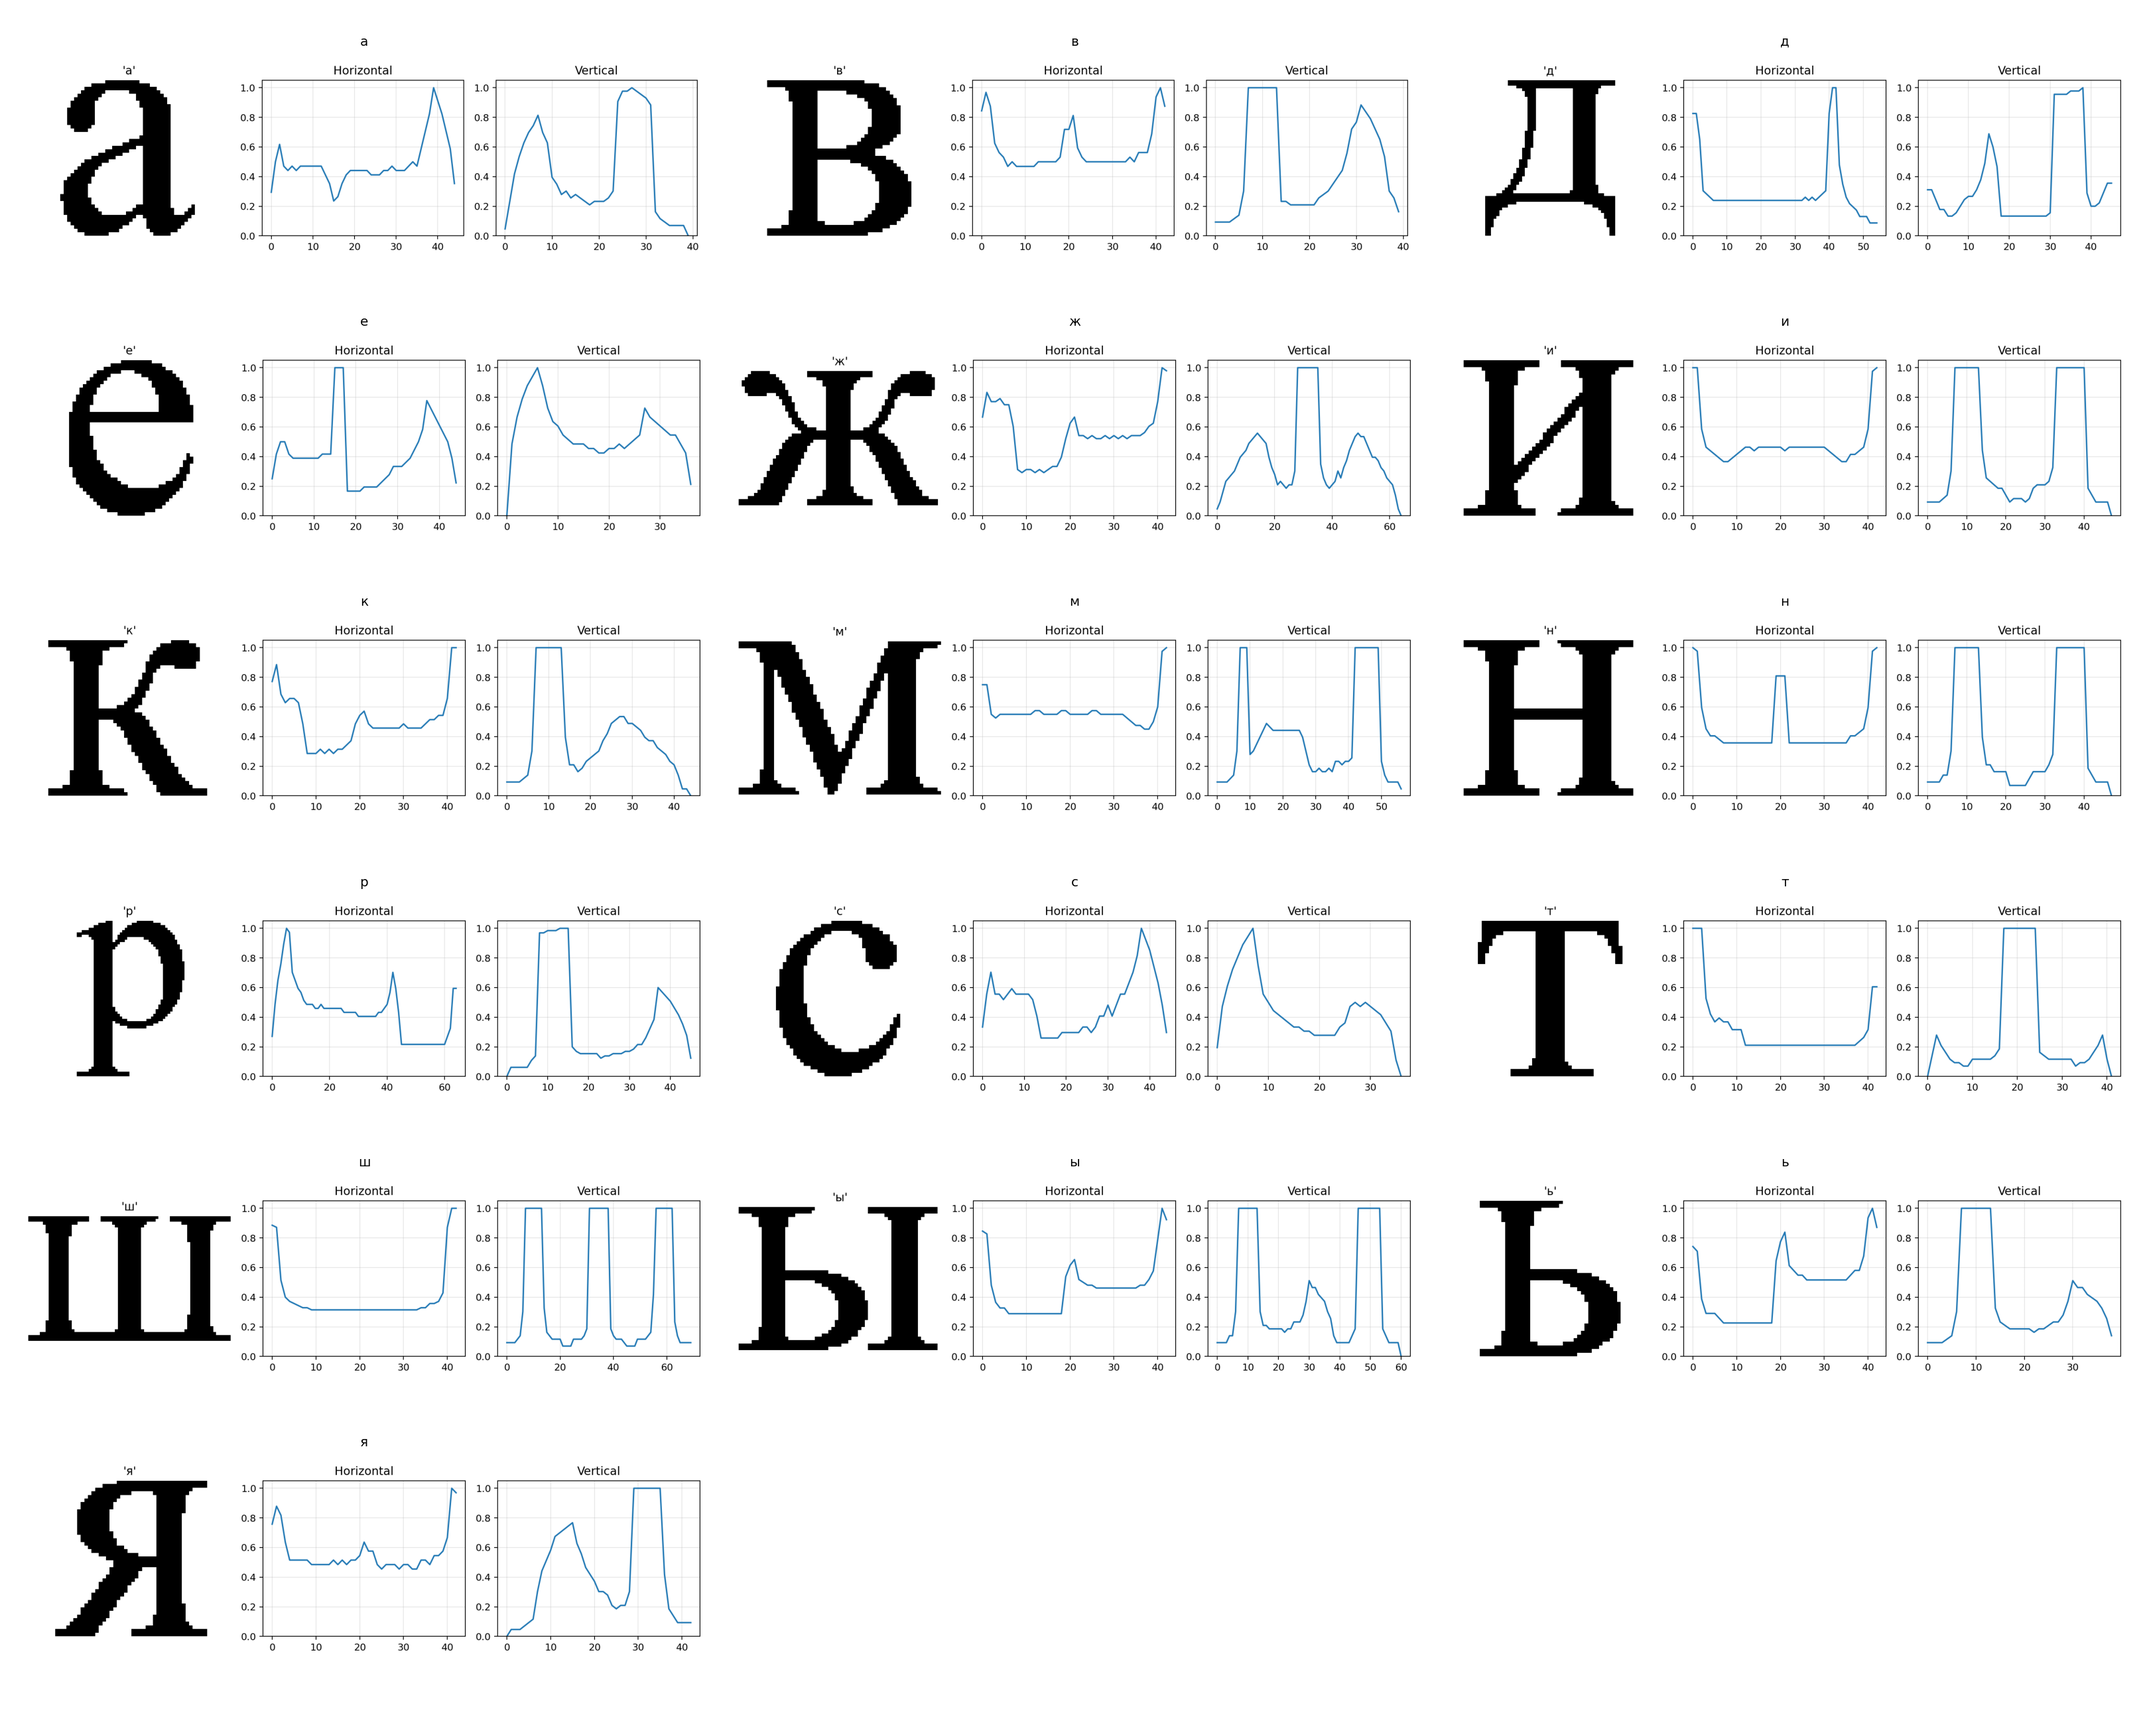
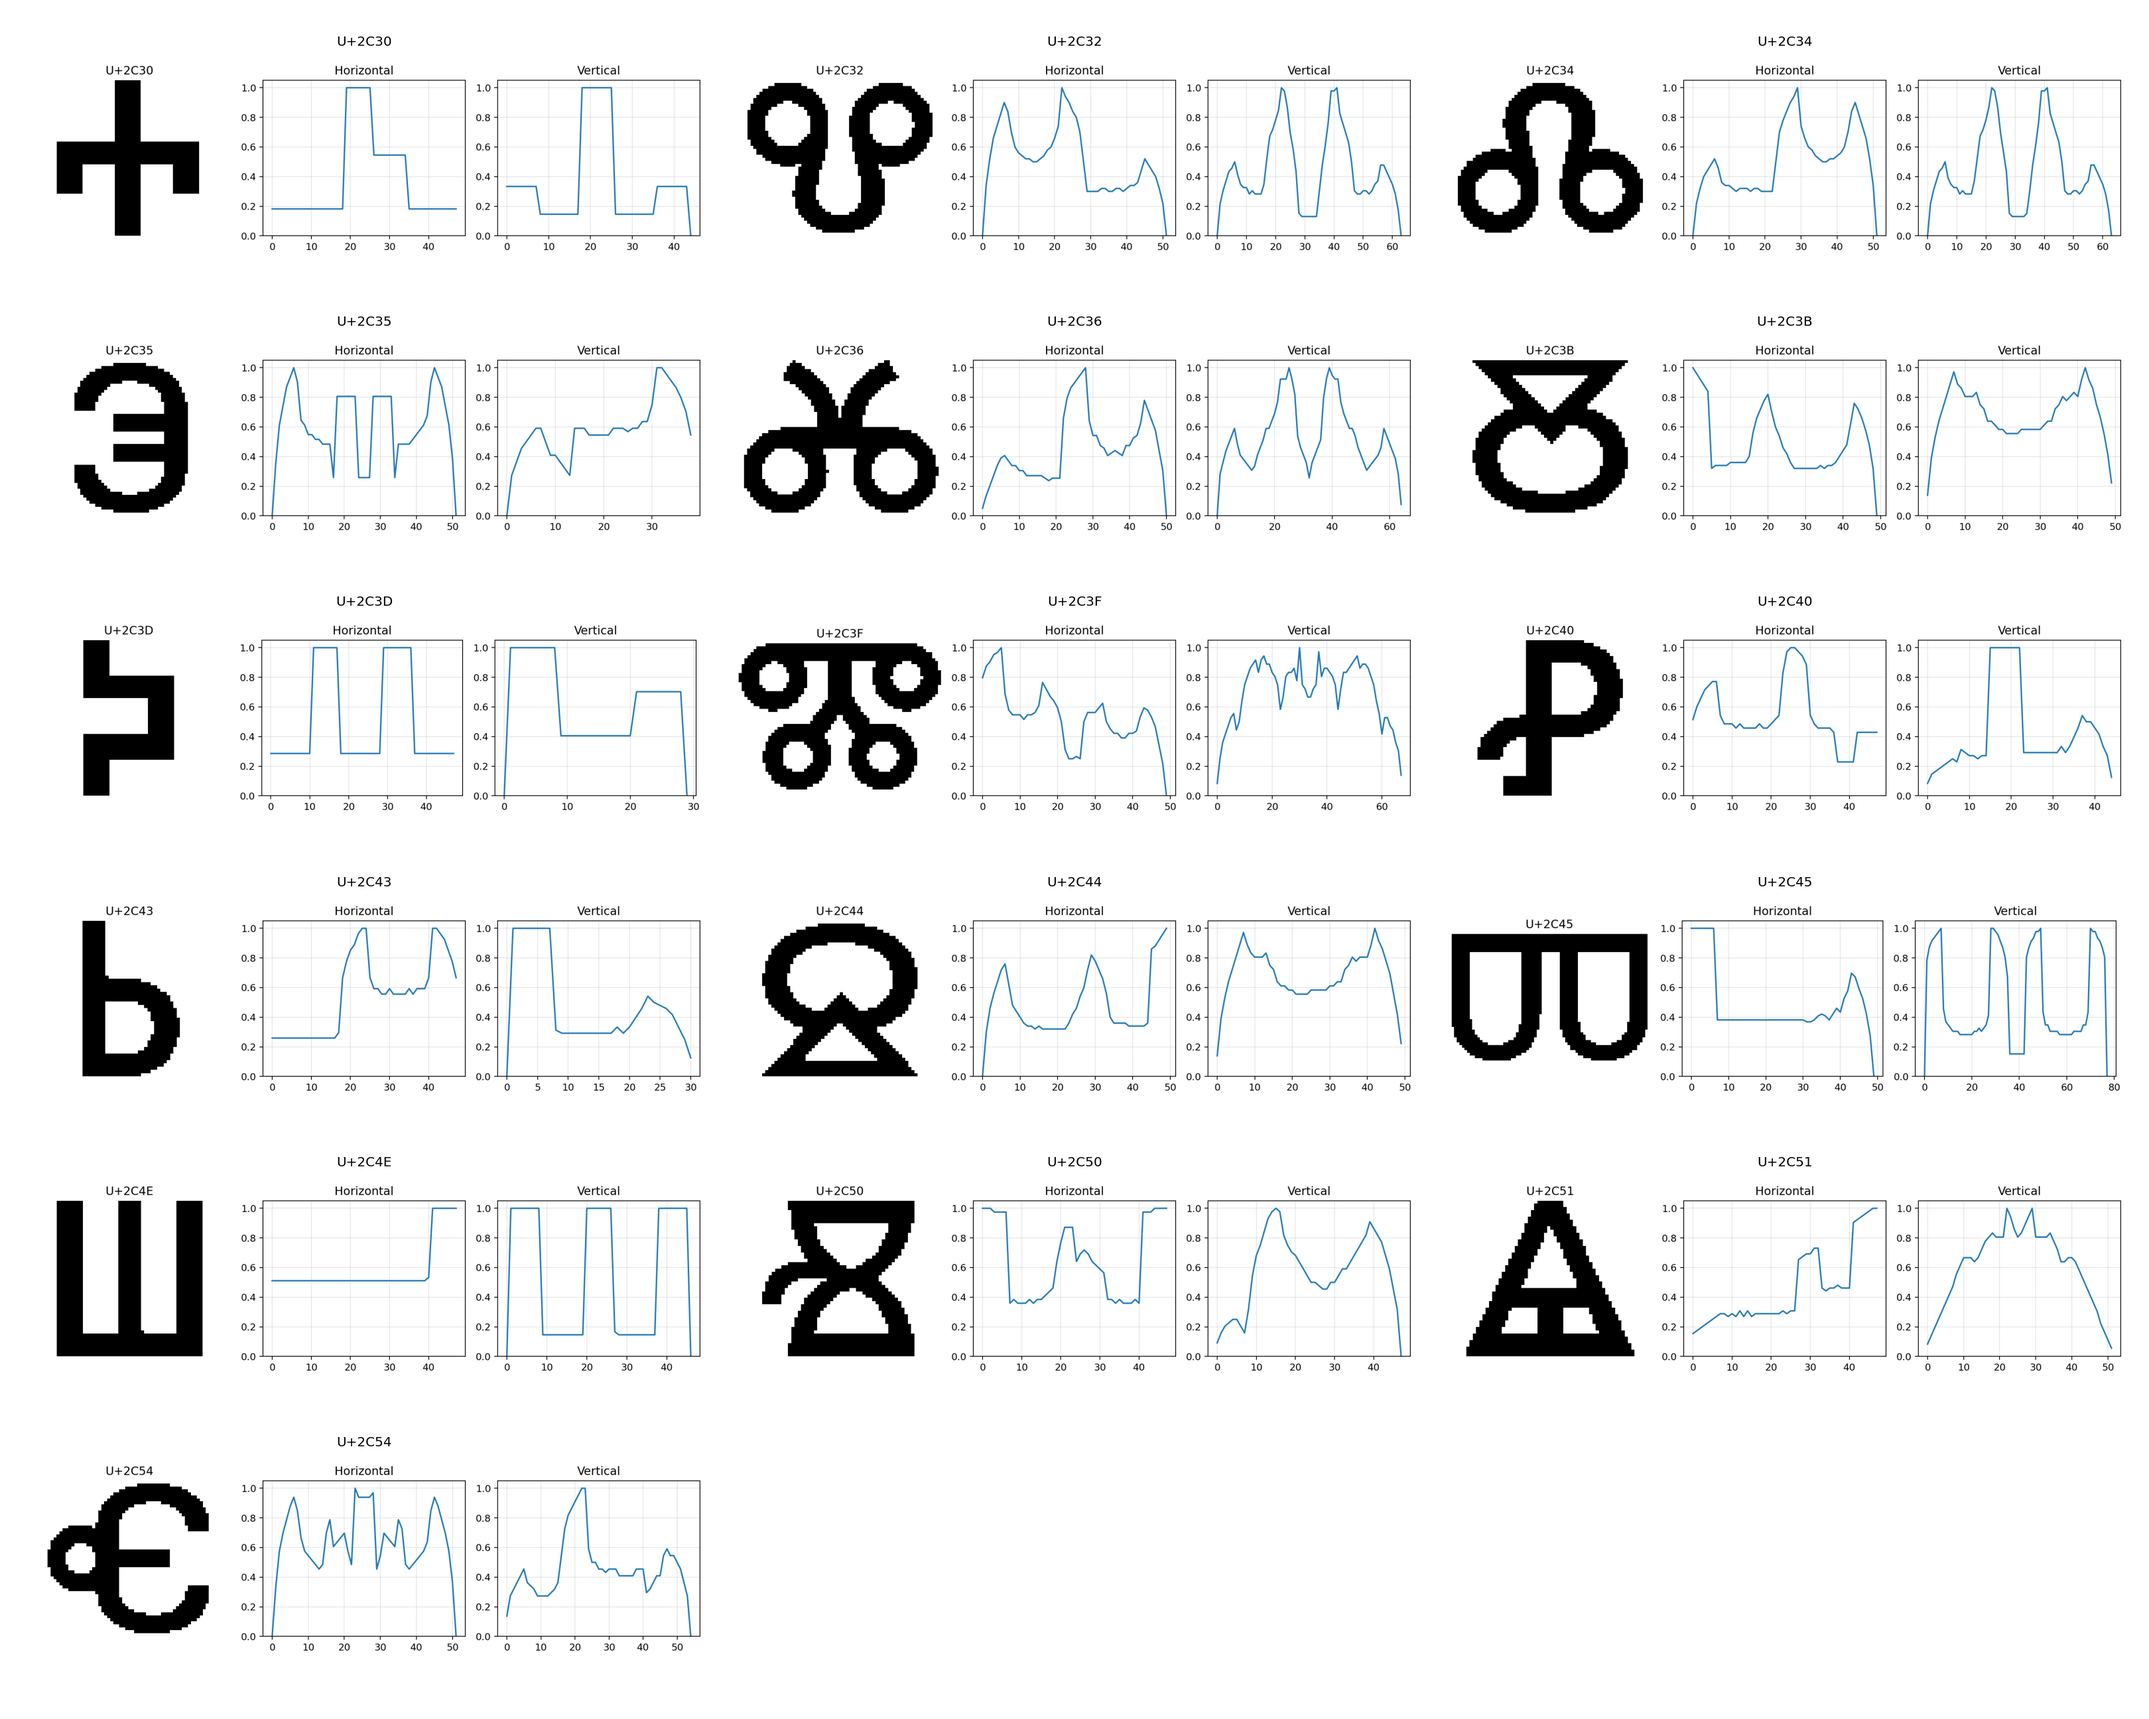
ЛР6: перевод текста в глаголицу и обновление отчета

diff --git a/6 лаба/lab6_text_segmentation.py b/6 лаба/lab6_text_segmentation.py
@@ -9,8 +9,50 @@ import numpy as np
 from PIL import Image, ImageDraw, ImageFont
 
 
-PHRASE = "ты мне нравишься с каждым днем"
-FONT_PATH = Path("C:/Windows/Fonts/times.ttf")
+CYRILLIC_PHRASE = "ты мне нравишься с каждым днем"
+CYR_TO_GLAG = {
+    "а": "ⰰ",
+    "б": "ⰱ",
+    "в": "ⰲ",
+    "г": "ⰳ",
+    "д": "ⰴ",
+    "е": "ⰵ",
+    "ё": "ⱖ",
+    "ж": "ⰶ",
+    "з": "ⰸ",
+    "и": "ⰻ",
+    "й": "ⰺ",
+    "к": "ⰽ",
+    "л": "ⰾ",
+    "м": "ⰿ",
+    "н": "ⱀ",
+    "о": "ⱁ",
+    "п": "ⱂ",
+    "р": "ⱃ",
+    "с": "ⱄ",
+    "т": "ⱅ",
+    "у": "ⱆ",
+    "ф": "ⱇ",
+    "х": "ⱈ",
+    "ц": "ⱌ",
+    "ч": "ⱍ",
+    "ш": "ⱎ",
+    "щ": "ⱋ",
+    "ъ": "ⱏ",
+    "ы": "ⱐ",
+    "ь": "ⱑ",
+    "э": "ⰵ",
+    "ю": "ⱓ",
+    "я": "ⱔ",
+}
+
+
+def cyrillic_to_glagolitic(text: str) -> str:
+    return "".join(CYR_TO_GLAG.get(ch, ch) for ch in text.lower())
+
+
+PHRASE = cyrillic_to_glagolitic(CYRILLIC_PHRASE)
+FONT_PATH = Path("C:/Windows/Fonts/seguihis.ttf")
 FONT_SIZE = 96
 INK_THRESHOLD = 128
 
@@ -223,6 +265,9 @@ def build_alphabet_profiles(
     threshold: int,
     out_dir: Path,
 ) -> dict[str, dict[str, list[float]]]:
+    for stale in out_dir.glob("profile_*.png"):
+        stale.unlink()
+
     alphabet = sorted(set(ch for ch in phrase.lower() if ch.strip()))
     font = ImageFont.truetype(str(font_path), font_size)
     profiles: dict[str, dict[str, list[float]]] = {}
@@ -252,7 +297,7 @@ def build_alphabet_profiles(
 
         fig, axes = plt.subplots(1, 3, figsize=(10, 3))
         axes[0].imshow(fg, cmap="gray_r")
-        axes[0].set_title(f"'{ch}'")
+        axes[0].set_title(f"U+{ord(ch):04X}")
         axes[0].axis("off")
 
         axes[1].plot(h_n)
@@ -278,7 +323,7 @@ def decode_profile_label(stem: str) -> str:
     token = stem.replace("profile_", "")
     if token.startswith("_u"):
         try:
-            return chr(int(token[2:], 16))
+            return f"U+{int(token[2:], 16):04X}"
         except ValueError:
             return token
     return token
@@ -371,10 +416,11 @@ def main() -> None:
     write_results_json(boxes, profiles, dirs["output"] / "results.json")
 
     print("Done.")
-    print(f"Phrase: {PHRASE}")
+    print(f"Cyrillic phrase: {CYRILLIC_PHRASE}")
+    print(f"Glagolitic phrase (escaped): {PHRASE.encode('unicode_escape').decode('ascii')}")
     print(f"Mono BMP: {mono_bmp}")
     print(f"Detected symbols: {len(boxes)}")
-    print(f"Alphabet symbols: {''.join(profiles.keys())}")
+    print(f"Alphabet size: {len(profiles)}")
     print(f"Output folder: {dirs['output']}")
 
 

diff --git a/6 лаба/REPORT.md b/6 лаба/REPORT.md
@@ -5,66 +5,66 @@
 Реализовать выделение символов в строке текста по горизонтальному и вертикальному проекционным профилям.
 
 ### Исходные параметры
-- Фраза: `ты мне нравишься с каждым днем`
-- Шрифт: `Times New Roman` (`C:/Windows/Fonts/times.ttf`)
+- Исходная фраза (кириллица): `ты мне нравишься с каждым днем`
+- Фраза для обработки (глаголица): `ⱅⱐ ⰿⱀⰵ ⱀⱃⰰⰲⰻⱎⱑⱄⱔ ⱄ ⰽⰰⰶⰴⱐⰿ ⰴⱀⰵⰿ`
+- Шрифт: `Segoe UI Historic` (`C:/Windows/Fonts/seguihis.ttf`)
 - Размер шрифта: `96 px`
 - Бинаризация: `I(x,y)=1` для черного пикселя, `0` для фона
 - Параметры сегментации:
-- `MAX_INK_IN_GAP = 2` (допуск по вертикальному профилю для разрыва)
-- `MIN_GAP_WIDTH = 2` (прореживание: минимальная ширина разрыва)
-- `MIN_CHAR_WIDTH = 5` (минимальная ширина символа)
+- `MAX_INK_IN_GAP = 2`
+- `MIN_GAP_WIDTH = 2`
+- `MIN_CHAR_WIDTH = 5`
 
 ### 1. Подготовка монохромного изображения (`*.bmp`)
-Фраза сгенерирована выбранным шрифтом, затем обрезана по границам текста и сохранена в 1-битный BMP без лишнего белого фона.
+Фраза в глаголице сгенерирована выбранным шрифтом, обрезана по границам текста и сохранена в 1-битный BMP.
 
-![Исходная фраза в оттенках серого](output/source/01_phrase_gray.png)
+![Исходная фраза](output/source/01_phrase_gray.png)
 ![Монохромное изображение](output/source/02_phrase_mono.png)
 
 Файл BMP: `output/source/03_phrase_mono.bmp`
 
 ### 2. Горизонтальный и вертикальный профили
-Использованы профили:
-- Горизонтальный: `H(y)=Σ_x I(x,y)`
-- Вертикальный: `V(x)=Σ_y I(x,y)`
+- Горизонтальный профиль: `H(y)=Σ_x I(x,y)`
+- Вертикальный профиль: `V(x)=Σ_y I(x,y)`
 
 ![Горизонтальный профиль](output/profiles/04_horizontal_profile.png)
 ![Вертикальный профиль полного изображения](output/profiles/05_vertical_profile_full.png)
-![Вертикальный профиль строки (с порогом)](output/profiles/05_vertical_profile_line.png)
+![Вертикальный профиль строки](output/profiles/05_vertical_profile_line.png)
 
 ### 3. Сегментация символов по профилям с прореживанием
 Алгоритм:
 - По `H(y)` выделяется строка текста.
-- По `V(x)` ищутся столбцы-разделители (`V(x) <= 2`).
-- Прореживание: удаляются слишком узкие разрывы (меньше 2 пикселей).
-- Непрерывные области между разрывами считаются символами.
-- Для каждой области формируется ограничивающий прямоугольник `[x1, y1, x2, y2]`.
+- По `V(x)` определяются столбцы-разделители (`V(x) <= 2`).
+- Выполняется прореживание коротких разрывов.
+- Области между разрывами считаются символами.
+- Для каждой области строится ограничивающий прямоугольник `[x1, y1, x2, y2]`.
 
 Результат: обнаружено `25` символов.
 
-![Сегментация: ограничивающие прямоугольники](output/segmentation/06_segmentation_boxes.png)
+![Ограничивающие прямоугольники](output/segmentation/06_segmentation_boxes.png)
 ![Вырезанные символы](output/segmentation/07_symbol_crops.png)
 
-Координаты найденных прямоугольников:
+Координаты прямоугольников:
 
 ```text
-[[0, 1, 41, 44], [44, 1, 104, 44], [133, 1, 189, 44], [194, 1, 241, 44],
- [247, 0, 283, 45], [312, 1, 359, 44], [361, 0, 406, 65], [413, 0, 451, 45],
- [454, 1, 494, 44], [499, 1, 546, 44], [550, 1, 620, 44], [624, 1, 663, 44],
- [669, 0, 705, 45], [712, 1, 751, 44], [780, 0, 816, 45], [846, 1, 888, 44],
- [895, 0, 933, 45], [936, 1, 998, 44], [1001, 1, 1047, 56], [1051, 1, 1111, 44],
- [1116, 1, 1172, 44], [1200, 1, 1246, 56], [1250, 1, 1297, 44], [1303, 0, 1339, 45],
- [1344, 1, 1401, 44]]
+[[0, 2, 77, 51], [87, 2, 134, 50], [169, 2, 237, 51], [243, 2, 288, 50],
+ [297, 1, 335, 51], [370, 2, 415, 50], [427, 2, 457, 50], [465, 2, 509, 50],
+ [519, 1, 581, 51], [590, 2, 640, 51], [652, 2, 697, 50], [706, 2, 757, 50],
+ [763, 1, 813, 50], [820, 1, 874, 51], [909, 1, 959, 50], [997, 2, 1025, 50],
+ [1036, 2, 1080, 50], [1090, 1, 1154, 51], [1163, 1, 1225, 51], [1233, 2, 1280, 50],
+ [1289, 2, 1357, 51], [1392, 1, 1454, 51], [1461, 2, 1506, 50], [1515, 1, 1553, 51],
+ [1564, 2, 1632, 51]]
 ```
 
 ### 4. Профили символов выбранного алфавита
-Выбранный алфавит: уникальные буквы фразы (`16` символов):
-`авдежикмнрстшыья`
+Уникальные символы фразы: `16`.
+
+Кодовые точки символов:
+`U+2C30 U+2C32 U+2C34 U+2C35 U+2C36 U+2C3B U+2C3D U+2C3F U+2C40 U+2C43 U+2C44 U+2C45 U+2C4E U+2C50 U+2C51 U+2C54`
 
 Для каждого символа построены нормированные горизонтальный и вертикальный профили.
 
 ![Превью профилей символов](output/alphabet_profiles/08_alphabet_profiles_preview.png)
-
-Все отдельные профили сохранены в: `output/alphabet_profiles/profile_*.png`
 
 ### Файлы проекта
 - Скрипт: `lab6_text_segmentation.py`
@@ -74,3 +74,4 @@
 ```powershell
 py -3.13 lab6_text_segmentation.py
 ```
+
